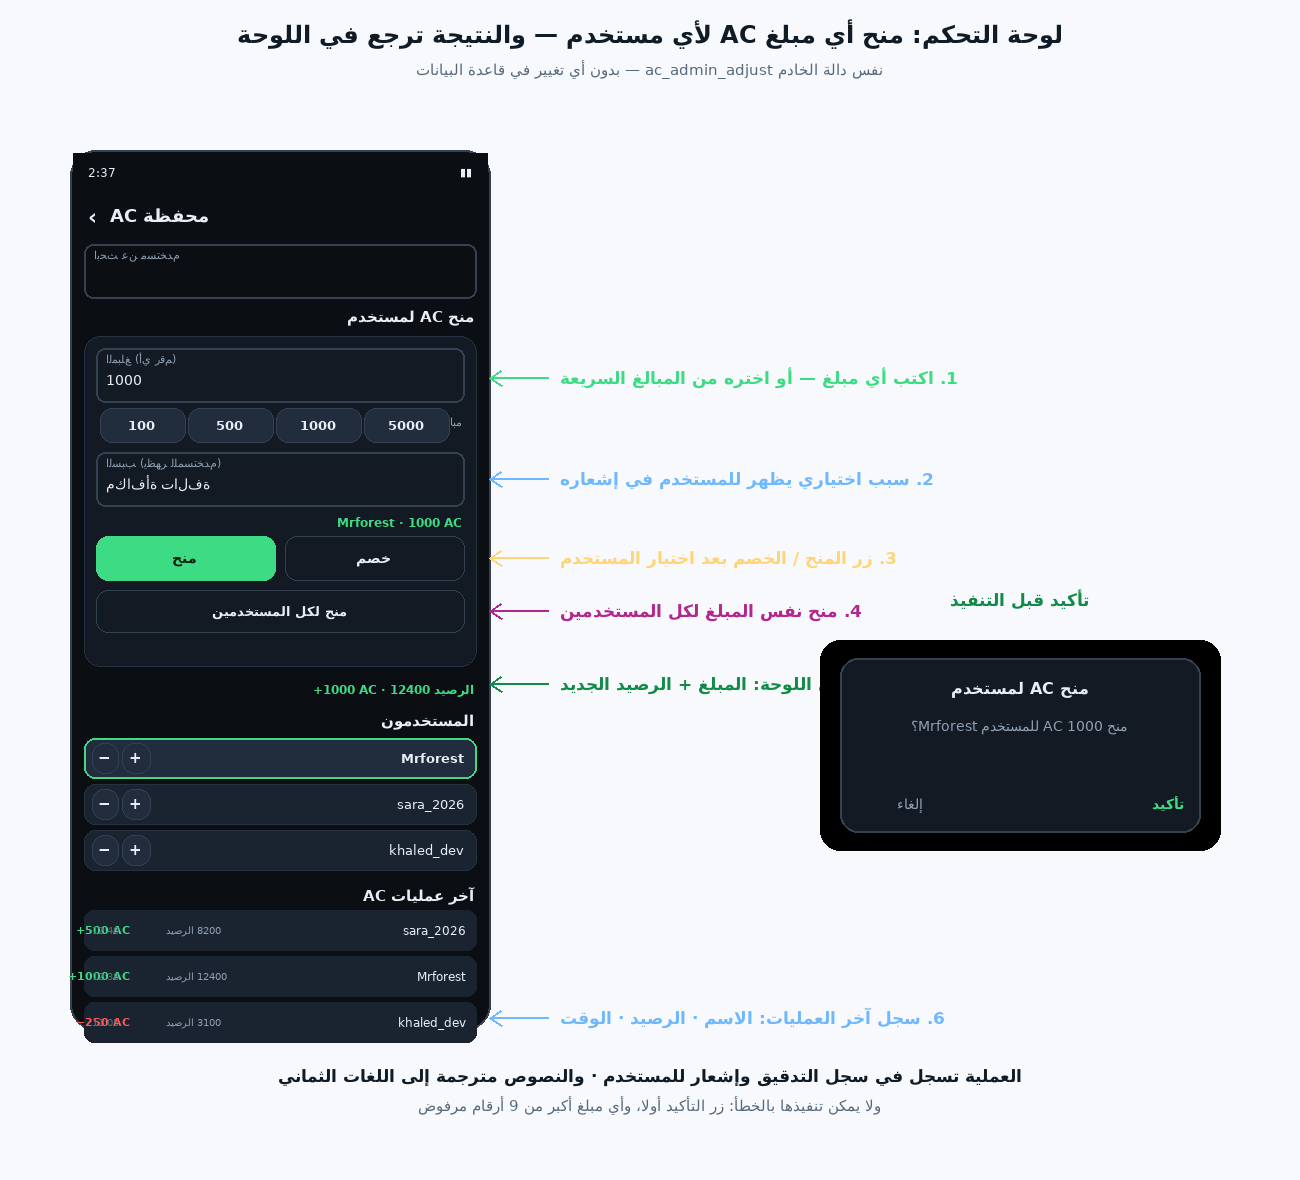
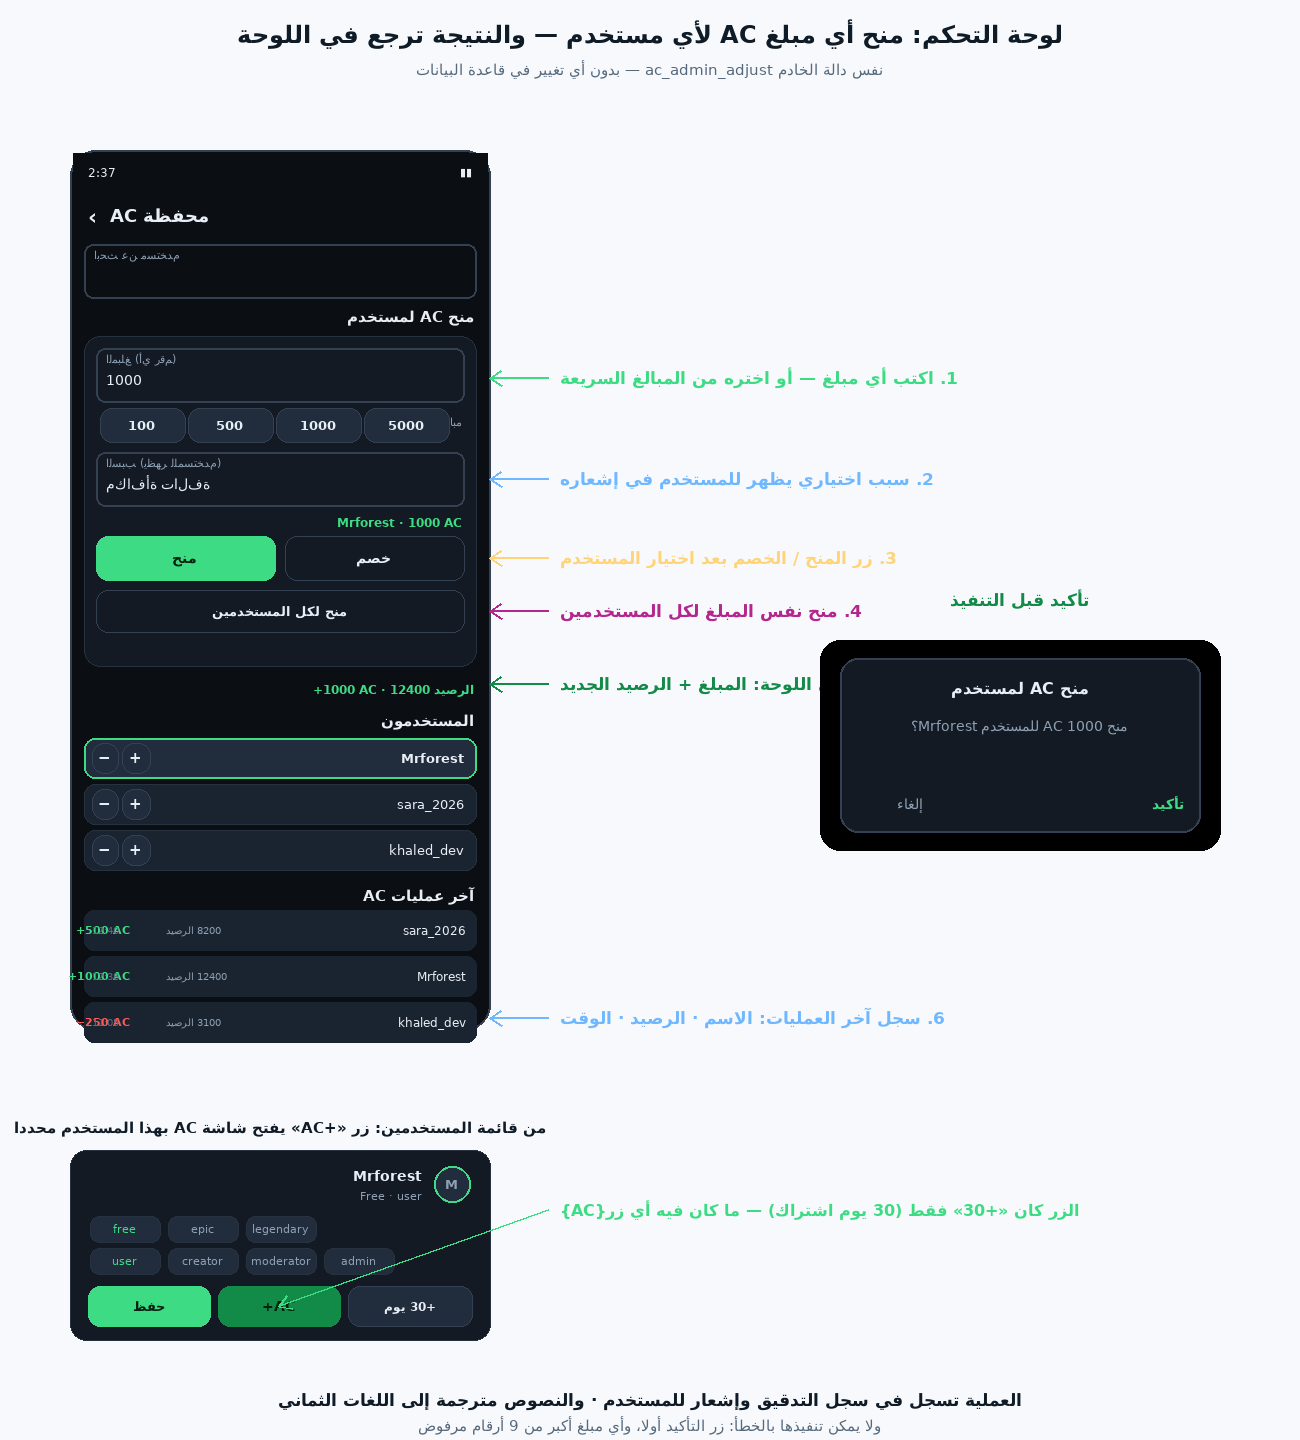
Admin: a '+AC' button on every user card, and the AC entry gets a real name
The users list had no way to give AC at all: its only '+30' button
granted 30 days of subscription, and the AC screen itself was reachable
only from a row labelled 'AC Management' in English — which is why
asking for it kept coming back.

- AdminUserRow: new '+AC' button opens the AC screen with that user
  already selected (new route admin-ac/user/{userId}); the days button
  is now labelled '+30 days' so the two can't be confused.
- More tab: 'AC management and grants' and 'Creator tips' are now
  localized instead of hardcoded English.
- 4 new strings × 8 languages; the previous commit's give/deduct panel,
  result line and operations log are unchanged.

diff --git a/android/app/src/main/java/com/addonstation/mobile/ui/admin/AdminScreens.kt b/android/app/src/main/java/com/addonstation/mobile/ui/admin/AdminScreens.kt
@@ -108,7 +108,7 @@ fun AdminPanelScreen(
     onOpenAssets: () -> Unit,
     onOpenCreatorApps: () -> Unit,
     onOpenTips: () -> Unit,
-    onOpenAc: () -> Unit,
+    onOpenAc: (String?) -> Unit,
     onOpenAudit: () -> Unit,
     onOpenSettings: () -> Unit,
 ) {
@@ -205,6 +205,7 @@ fun AdminPanelScreen(
                     roleFilter = roleFilter,
                     onRoleFilter = { roleFilter = it },
                     loading = loading,
+                    onGiveAc = { userId -> onOpenAc(userId) },
                     onSaveUser = { user, plan, role, grantDays ->
                         scope.launch {
                             container.admin.updateUserPlanRole(
@@ -375,6 +376,7 @@ private fun OverviewTab(
     roleFilter: String,
     onRoleFilter: (String) -> Unit,
     loading: Boolean,
+    onGiveAc: (String) -> Unit,
     onSaveUser: (Profile, String?, String?, Int?) -> Unit,
     onEditContent: () -> Unit,
     onDeleteContent: (ContentItem) -> Unit,
@@ -435,7 +437,7 @@ private fun OverviewTab(
             LoadingBox()
         } else {
             users.take(40).forEach { user ->
-                AdminUserRow(user = user, onSave = onSaveUser)
+                AdminUserRow(user = user, onGiveAc = onGiveAc, onSave = onSaveUser)
                 Spacer(Modifier.height(8.dp))
             }
         }
@@ -516,7 +518,11 @@ private fun LazyRowQuick(onQuick: (Int) -> Unit) {
 }
 
 @Composable
-private fun AdminUserRow(user: Profile, onSave: (Profile, String?, String?, Int?) -> Unit) {
+private fun AdminUserRow(
+    user: Profile,
+    onGiveAc: (String) -> Unit,
+    onSave: (Profile, String?, String?, Int?) -> Unit,
+) {
     val container = rememberContainer()
     var plan by remember(user.id) { mutableStateOf(user.plan) }
     var role by remember(user.id) { mutableStateOf(user.role) }
@@ -547,7 +553,14 @@ private fun AdminUserRow(user: Profile, onSave: (Profile, String?, String?, Int?
                 modifier = Modifier.weight(1f),
             )
             GhostButton(
-                text = "＋30",
+                // يمنح هذا المستخدم أي مبلغ AC — يفتح شاشة AC وهو محدَّد مسبقاً
+                text = stringResource(R.string.admin_give_ac_short),
+                onClick = { onGiveAc(user.id) },
+                modifier = Modifier.weight(1f),
+            )
+            GhostButton(
+                // +30 يوماً للاشتراك (ليس رصيد AC)
+                text = stringResource(R.string.admin_plan_days),
                 onClick = { onSave(user, plan, role, 30) },
                 modifier = Modifier.weight(1f),
             )
@@ -754,8 +767,8 @@ private fun MoreTab(onOpen: (String) -> Unit) {
             RowItem(Icons.Filled.Image, stringResource(R.string.admin_assets), onClick = { onOpen("assets") }, tint = AppColors.Blue)
             RowItem(Icons.Filled.Person, stringResource(R.string.admin_creator_requests), onClick = { onOpen("creators") }, tint = AppColors.Purple)
             RowItem(Icons.Filled.Settings, stringResource(R.string.admin_plans_and_payment), onClick = { onOpen("settings") }, tint = AppColors.Gold)
-            RowItem(Icons.Filled.MonetizationOn, "AC Management", onClick = { onOpen("ac") }, tint = AppColors.Green)
-            RowItem(Icons.Filled.Receipt, "Creator Tips", onClick = { onOpen("tips") }, tint = AppColors.Gold)
+            RowItem(Icons.Filled.MonetizationOn, stringResource(R.string.admin_ac_tools), onClick = { onOpen("ac") }, tint = AppColors.Green)
+            RowItem(Icons.Filled.Receipt, stringResource(R.string.admin_tips_title), onClick = { onOpen("tips") }, tint = AppColors.Gold)
             RowItem(Icons.Filled.Chat, stringResource(R.string.admin_chat), onClick = { onOpen("chat") }, tint = AppColors.Blue)
             RowItem(Icons.Filled.History, stringResource(R.string.admin_audit_log), onClick = { onOpen("audit") }, tint = AppColors.Muted)
             RowItem(Icons.Filled.AdminPanelSettings, stringResource(R.string.admin_title), onClick = { onOpen("back") }, tint = AppColors.Red)
@@ -1113,7 +1126,7 @@ fun AdminCreatorReviewScreen(onBack: () -> Unit) {
 
 /** لوحة AC: منح أي مبلغ لأي مستخدم + أكواد الهدايا + سجل العمليات. */
 @Composable
-fun AdminAcScreen(onBack: () -> Unit) {
+fun AdminAcScreen(onBack: () -> Unit, preselectUserId: String? = null) {
     val container = rememberContainer()
     val scope = rememberCoroutineScope()
     var query by remember { mutableStateOf("") }
@@ -1121,7 +1134,8 @@ fun AdminAcScreen(onBack: () -> Unit) {
     var names by remember { mutableStateOf<Map<String, String>>(emptyMap()) }
     var amount by remember { mutableStateOf("100") }
     var note by remember { mutableStateOf("") }
-    var selectedId by remember { mutableStateOf<String?>(null) }
+    // مستخدم قادم من زر «+AC» في قائمة المستخدمين → يبقى محدَّداً عند فتح الشاشة
+    var selectedId by remember { mutableStateOf<String?>(preselectUserId) }
     var pending by remember { mutableStateOf<Pair<String, Int>?>(null) }
     var pendingAll by remember { mutableStateOf(false) }
     var busy by remember { mutableStateOf(false) }
@@ -1149,8 +1163,9 @@ fun AdminAcScreen(onBack: () -> Unit) {
         ?: p.id.take(8)
 
     val amountValue = amount.toIntOrNull() ?: 0
-    val targetId = users.firstOrNull { it.id == selectedId }?.id
-    val targetLabel = users.firstOrNull { it.id == selectedId }?.let { label(it) } ?: ""
+    val fromList = users.firstOrNull { it.id == selectedId }
+    val targetId = fromList?.id ?: selectedId
+    val targetLabel = fromList?.let { label(it) } ?: names[selectedId] ?: selectedId?.take(8) ?: ""
 
     LaunchedEffect(query) {
         users = container.admin.users(query, null, 20)

diff --git a/android/app/src/main/java/com/addonstation/mobile/ui/nav/AppNav.kt b/android/app/src/main/java/com/addonstation/mobile/ui/nav/AppNav.kt
@@ -80,6 +80,9 @@ object Routes {
     const val ADMIN_ASSETS = "admin-assets"
     const val ADMIN_CREATORS = "admin-creators"
     const val ADMIN_AC = "admin-ac"
+    /** شاشة AC مع مستخدم محدَّد مسبقاً (زر «+AC» في بطاقة المستخدم). */
+    const val ADMIN_AC_USER = "admin-ac/user/{userId}"
+    fun adminAcUser(id: String) = "admin-ac/user/$id"
     const val ADMIN_SETTINGS = "admin-settings"
     const val ADMIN_AUDIT = "admin-audit"
     const val ADMIN_CHAT = "admin-chat"
@@ -458,7 +461,9 @@ private fun MainNavigation(startAtReset: Boolean) {
                         onOpenAssets = { go(Routes.ADMIN_ASSETS) },
                         onOpenCreatorApps = { go(Routes.ADMIN_CREATORS) },
                         onOpenTips = { go(Routes.ADMIN_CREATORS) },
-                        onOpenAc = { go(Routes.ADMIN_AC) },
+                        onOpenAc = { userId ->
+                            go(if (userId.isNullOrBlank()) Routes.ADMIN_AC else Routes.adminAcUser(userId))
+                        },
                         onOpenAudit = { go(Routes.ADMIN_AUDIT) },
                         onOpenSettings = { go(Routes.ADMIN_SETTINGS) },
                     )
@@ -477,6 +482,18 @@ private fun MainNavigation(startAtReset: Boolean) {
                 composable(Routes.ADMIN_AC) {
                     com.addonstation.mobile.ui.admin.AdminGate(onExit = { navController.popBackStack() }) {
                         com.addonstation.mobile.ui.admin.AdminAcScreen(onBack = { navController.popBackStack() })
+                    }
+                }
+                // نفس الشاشة لكن مع مستخدم محدَّد (فتحها زر «+AC» من بطاقة المستخدم)
+                composable(
+                    Routes.ADMIN_AC_USER,
+                    arguments = listOf(navArgument("userId") { type = NavType.StringType }),
+                ) { entry ->
+                    com.addonstation.mobile.ui.admin.AdminGate(onExit = { navController.popBackStack() }) {
+                        com.addonstation.mobile.ui.admin.AdminAcScreen(
+                            onBack = { navController.popBackStack() },
+                            preselectUserId = entry.arguments?.getString("userId"),
+                        )
                     }
                 }
                 composable(Routes.ADMIN_SETTINGS) {

diff --git a/tools/preview_admin_give_ac.py b/tools/preview_admin_give_ac.py
@@ -161,9 +161,35 @@ def dialog(x0, y0):
     d.text((x0 + 90, y0 + h - 46), rtl("إلغاء"), font=font(14), fill=MUTED, anchor="mm")
 
 
+def user_card(x0, y0):
+    """بطاقة المستخدم في تبويب لوحة الإدارة — فيها زر «+AC» الجديد."""
+    w, h = 420, 190
+    rounded((x0, y0, x0 + w, y0 + h), 16, fill=SURFACE, outline=BORDER)
+    d.ellipse((x0 + w - 56, y0 + 16, x0 + w - 20, y0 + 52), fill=ELEV2, outline=GREEN, width=2)
+    d.text((x0 + w - 38, y0 + 34), "M", font=font(13, True), fill=MUTED, anchor="mm")
+    d.text((x0 + w - 68, y0 + 26), "Mrforest", font=font(14, True), fill=TEXT, anchor="rm")
+    d.text((x0 + w - 68, y0 + 46), "Free · user", font=font(11), fill=MUTED, anchor="rm")
+    for i, t in enumerate(("free", "epic", "legendary")):
+        chip = (x0 + 20 + i * 78, y0 + 66, x0 + 90 + i * 78, y0 + 92)
+        rounded(chip, 9, fill=ELEV2, outline=BORDER)
+        d.text(((chip[0] + chip[2]) // 2, (chip[1] + chip[3]) // 2), t, font=font(11),
+               fill=GREEN if t == "free" else MUTED, anchor="mm")
+    for i, t in enumerate(("user", "creator", "moderator", "admin")):
+        chip = (x0 + 20 + i * 78, y0 + 98, x0 + 90 + i * 78, y0 + 124)
+        rounded(chip, 9, fill=ELEV2, outline=BORDER)
+        d.text(((chip[0] + chip[2]) // 2, (chip[1] + chip[3]) // 2), t, font=font(11),
+               fill=GREEN if t == "user" else MUTED, anchor="mm")
+    bw = (w - 52) // 3
+    button((x0 + 18, y0 + 136, x0 + 18 + bw, y0 + 176), "حفظ", fill=GREEN, text_color=ONGREEN, size=13)
+    button((x0 + 26 + bw, y0 + 136, x0 + 26 + 2 * bw, y0 + 176), "+AC", fill="#128A48", text_color=ONGREEN, size=14)
+    button((x0 + 34 + 2 * bw, y0 + 136, x0 + w - 18, y0 + 176), "+30 يوم", fill=ELEV2,
+           outline=BORDER2, size=12)
+    return (x0 + 26 + bw + bw // 2, y0 + 156)
+
+
 def main():
     global img, d
-    img = Image.new("RGB", (1300, 1180), "#F7F9FC")
+    img = Image.new("RGB", (1300, 1440), "#F7F9FC")
     d = ImageDraw.Draw(img)
     d.text((650, 34), rtl("لوحة التحكم: منح أي مبلغ AC لأي مستخدم — والنتيجة ترجع في اللوحة"),
            font=font(24, True), fill="#0F1B26", anchor="mm")
@@ -194,9 +220,18 @@ def main():
     dialog(820, 640)
     note(1020, 600, "#128A48", "تأكيد قبل التنفيذ", size=17)
 
-    d.text((650, TOP + H + 46), rtl("العملية تُسجَّل في سجل التدقيق وإشعار للمستخدم · والنصوص مترجمة إلى اللغات الثماني"),
+    # بطاقة المستخدم في تبويب الإدارة (نقطة الدخول الجديدة)
+    bx, by = 70, TOP + H + 120
+    card_btn = user_card(bx, by)
+    d.text((bx + W // 2, by - 22), rtl("من قائمة المستخدمين: زر «+AC» يفتح شاشة AC بهذا المستخدم محدَّداً"),
+           font=font(15, True), fill="#0F1B26", anchor="mm")
+    note(NX, by + 60, GREEN, "الزر كان «+30» فقط (30 يوم اشتراك) — ما كان فيه أي زر{AC}",
+         anchor="lm", size=16)
+    arrow(NX - 12, by + 60, card_btn[0], card_btn[1], GREEN, w=2)
+
+    d.text((650, 1400), rtl("العملية تُسجَّل في سجل التدقيق وإشعار للمستخدم · والنصوص مترجمة إلى اللغات الثماني"),
            font=font(17, True), fill="#0F1B26", anchor="mm")
-    d.text((650, TOP + H + 76), rtl("ولا يمكن تنفيذها بالخطأ: زر التأكيد أولاً، وأي مبلغ أكبر من 9 أرقام مرفوض"),
+    d.text((650, 1426), rtl("ولا يمكن تنفيذها بالخطأ: زر التأكيد أولاً، وأي مبلغ أكبر من 9 أرقام مرفوض"),
            font=font(15), fill="#56697C", anchor="mm")
     img.save(OUT)
     print("✔", OUT, img.size)

diff --git a/tools/add_admin_give_ac_strings.py b/tools/add_admin_give_ac_strings.py
@@ -120,6 +120,27 @@ T = {
         "values-pt": "Ainda não há operações AC", "values-ru": "Операций AC пока нет",
         "values-tr": "Henüz AC işlemi yok", "values-zh": "暂无 AC 操作",
     },
+    "admin_give_ac_short": {
+        "values": "+AC", "values-ar": "+AC", "values-es": "+AC", "values-fr": "+AC",
+        "values-pt": "+AC", "values-ru": "+AC", "values-tr": "+AC", "values-zh": "+AC",
+    },
+    "admin_plan_days": {
+        "values": "+30 days", "values-ar": "+30 يوم", "values-es": "+30 días",
+        "values-fr": "+30 jours", "values-pt": "+30 dias", "values-ru": "+30 дней",
+        "values-tr": "+30 gün", "values-zh": "+30 天",
+    },
+    "admin_ac_tools": {
+        "values": "AC management and grants", "values-ar": "إدارة AC ومنح الأرصدة",
+        "values-es": "Gestión de AC y concesiones", "values-fr": "Gestion des AC et attributions",
+        "values-pt": "Gestão de AC e concessões", "values-ru": "Управление AC и начисления",
+        "values-tr": "AC yönetimi ve hediyeler", "values-zh": "AC 管理与发放",
+    },
+    "admin_tips_title": {
+        "values": "Creator tips", "values-ar": "نصائح صنّاع المحتوى",
+        "values-es": "Propinas de creadores", "values-fr": "Pourboires des créateurs",
+        "values-pt": "Gorjetas de criadores", "values-ru": "Чаевые создателям",
+        "values-tr": "İçerik üreticisi bahşişleri", "values-zh": "创作者小费",
+    },
     "admin_give_ac_no_users": {
         "values": "No matching user", "values-ar": "لا يوجد مستخدم مطابق",
         "values-es": "Ningún usuario coincide", "values-fr": "Aucun utilisateur trouvé",
@@ -142,7 +163,7 @@ T = {
 
 
 def esc(v: str) -> str:
-    return v.replace("'", "\\'")
+    return v.replace("'", "\\'").replace("&", "&amp;").replace("<", "&lt;")
 
 
 def main():
